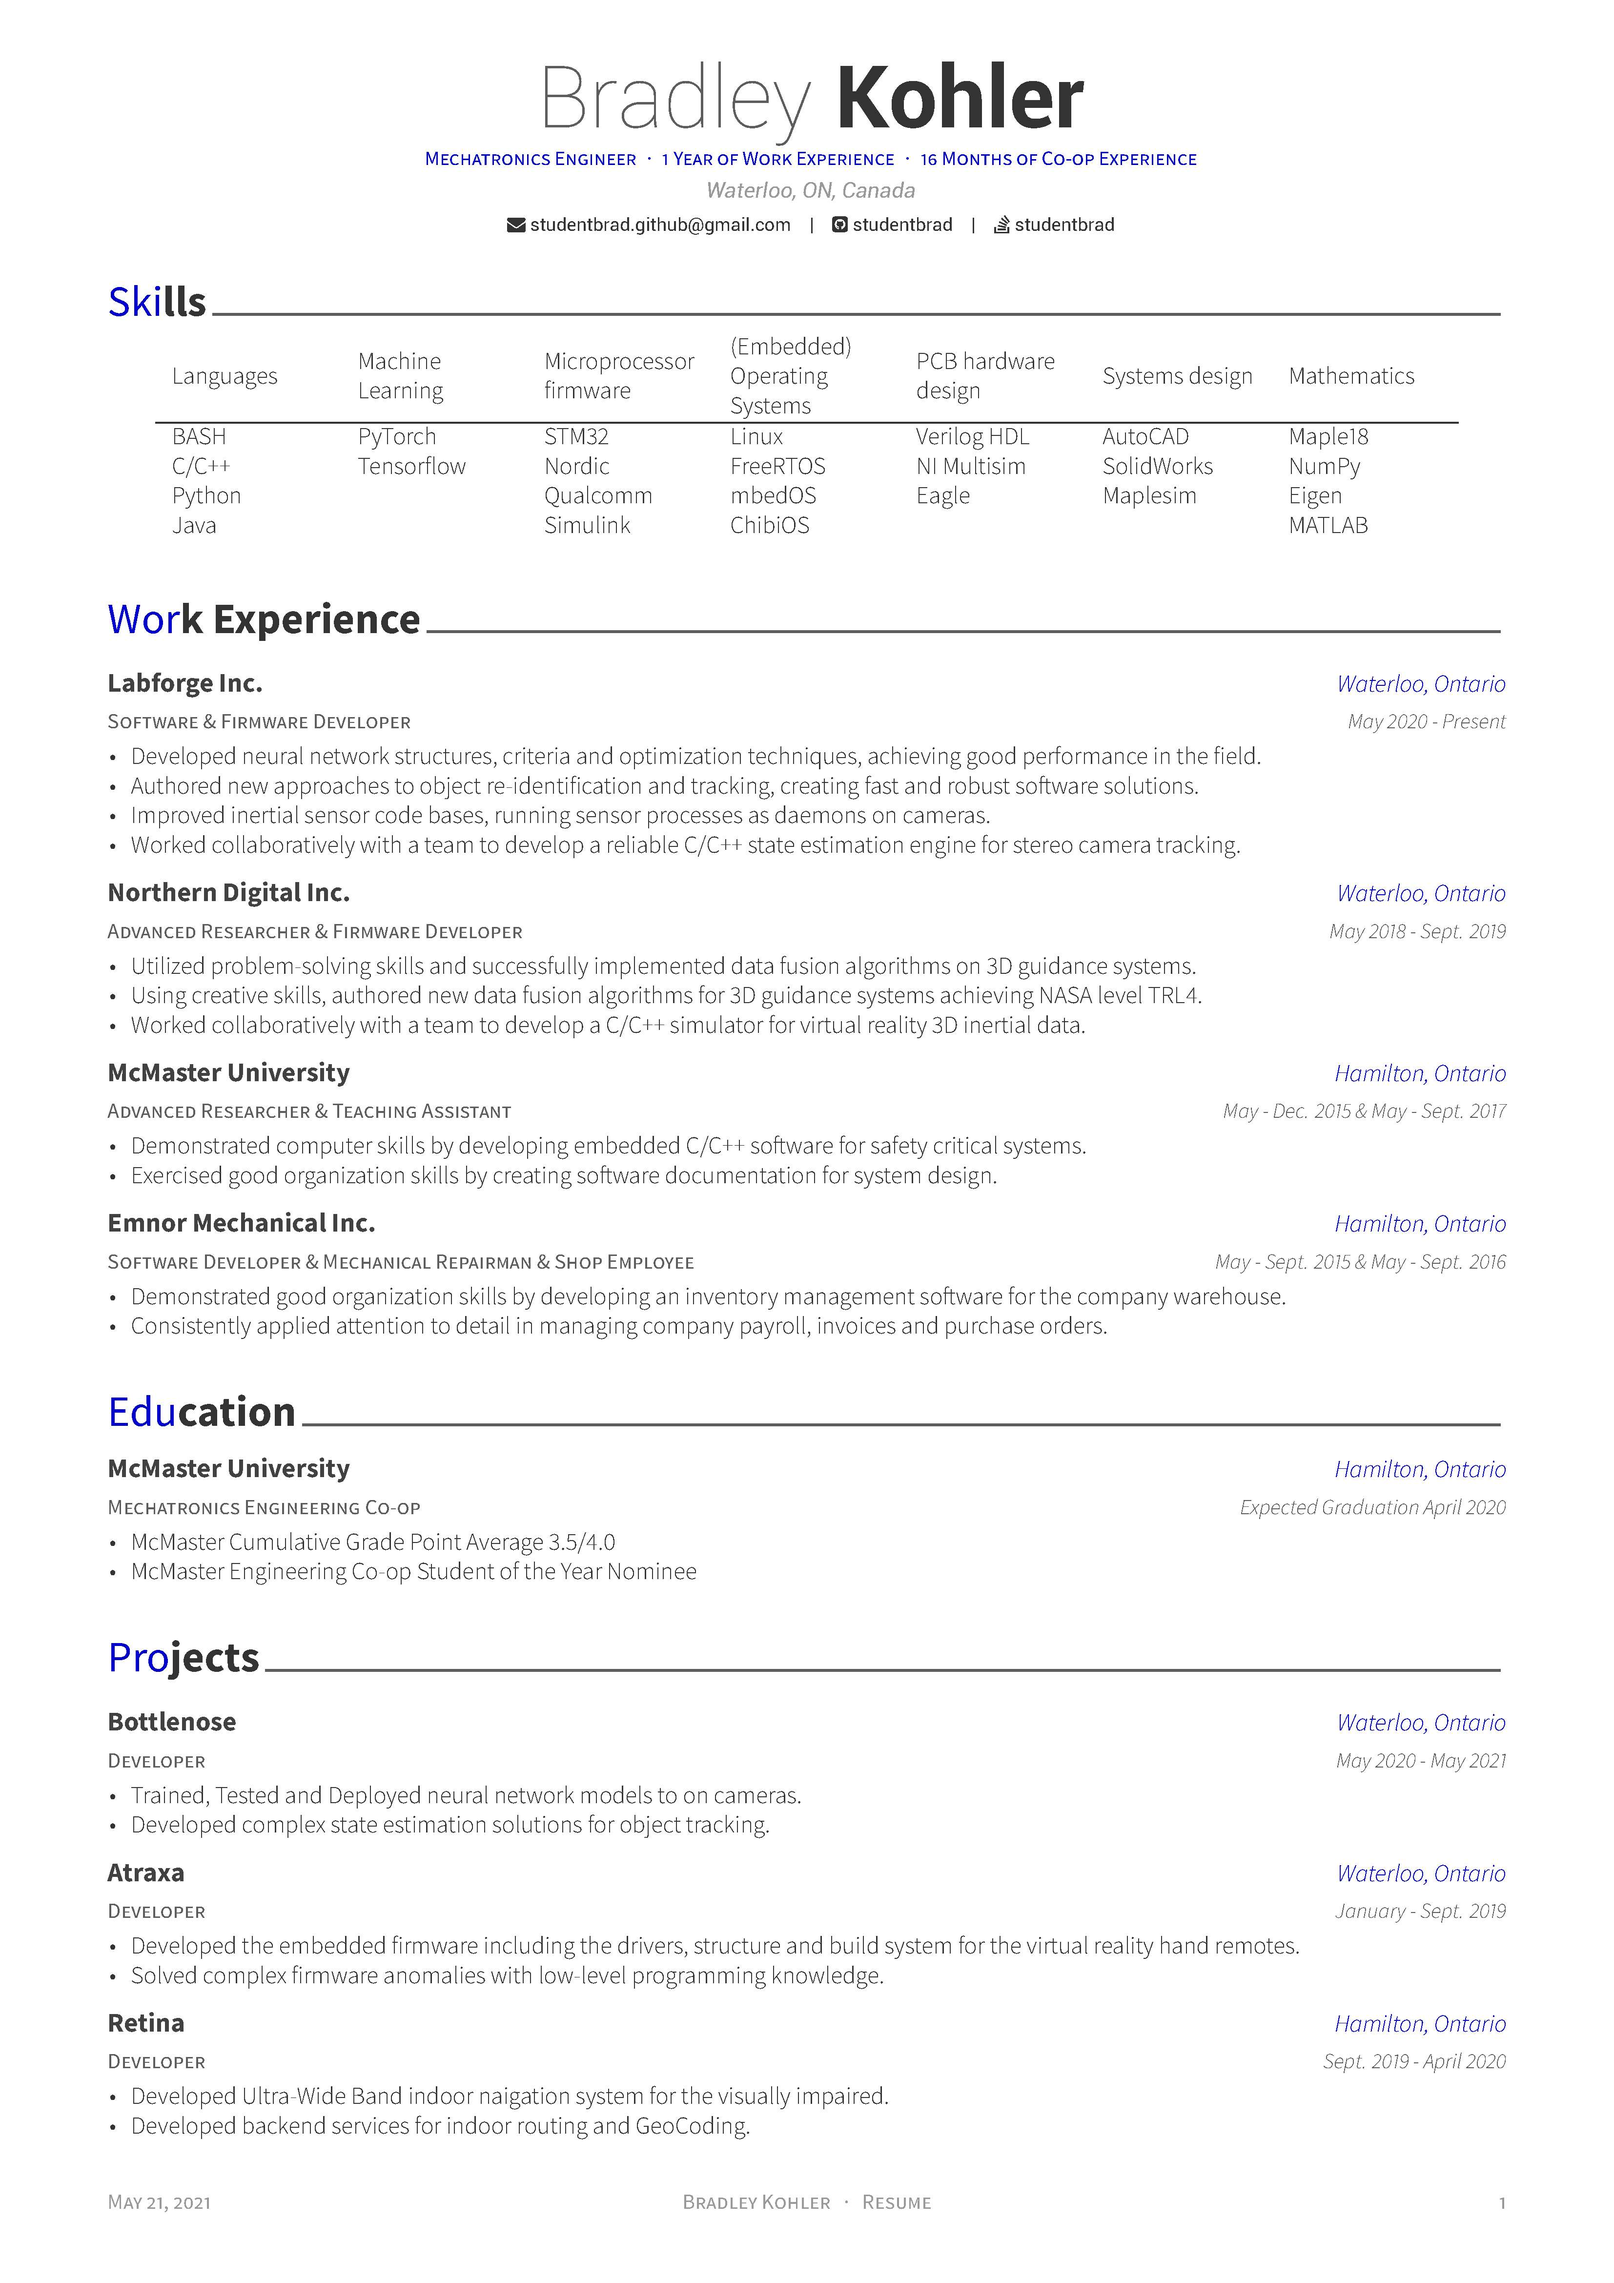
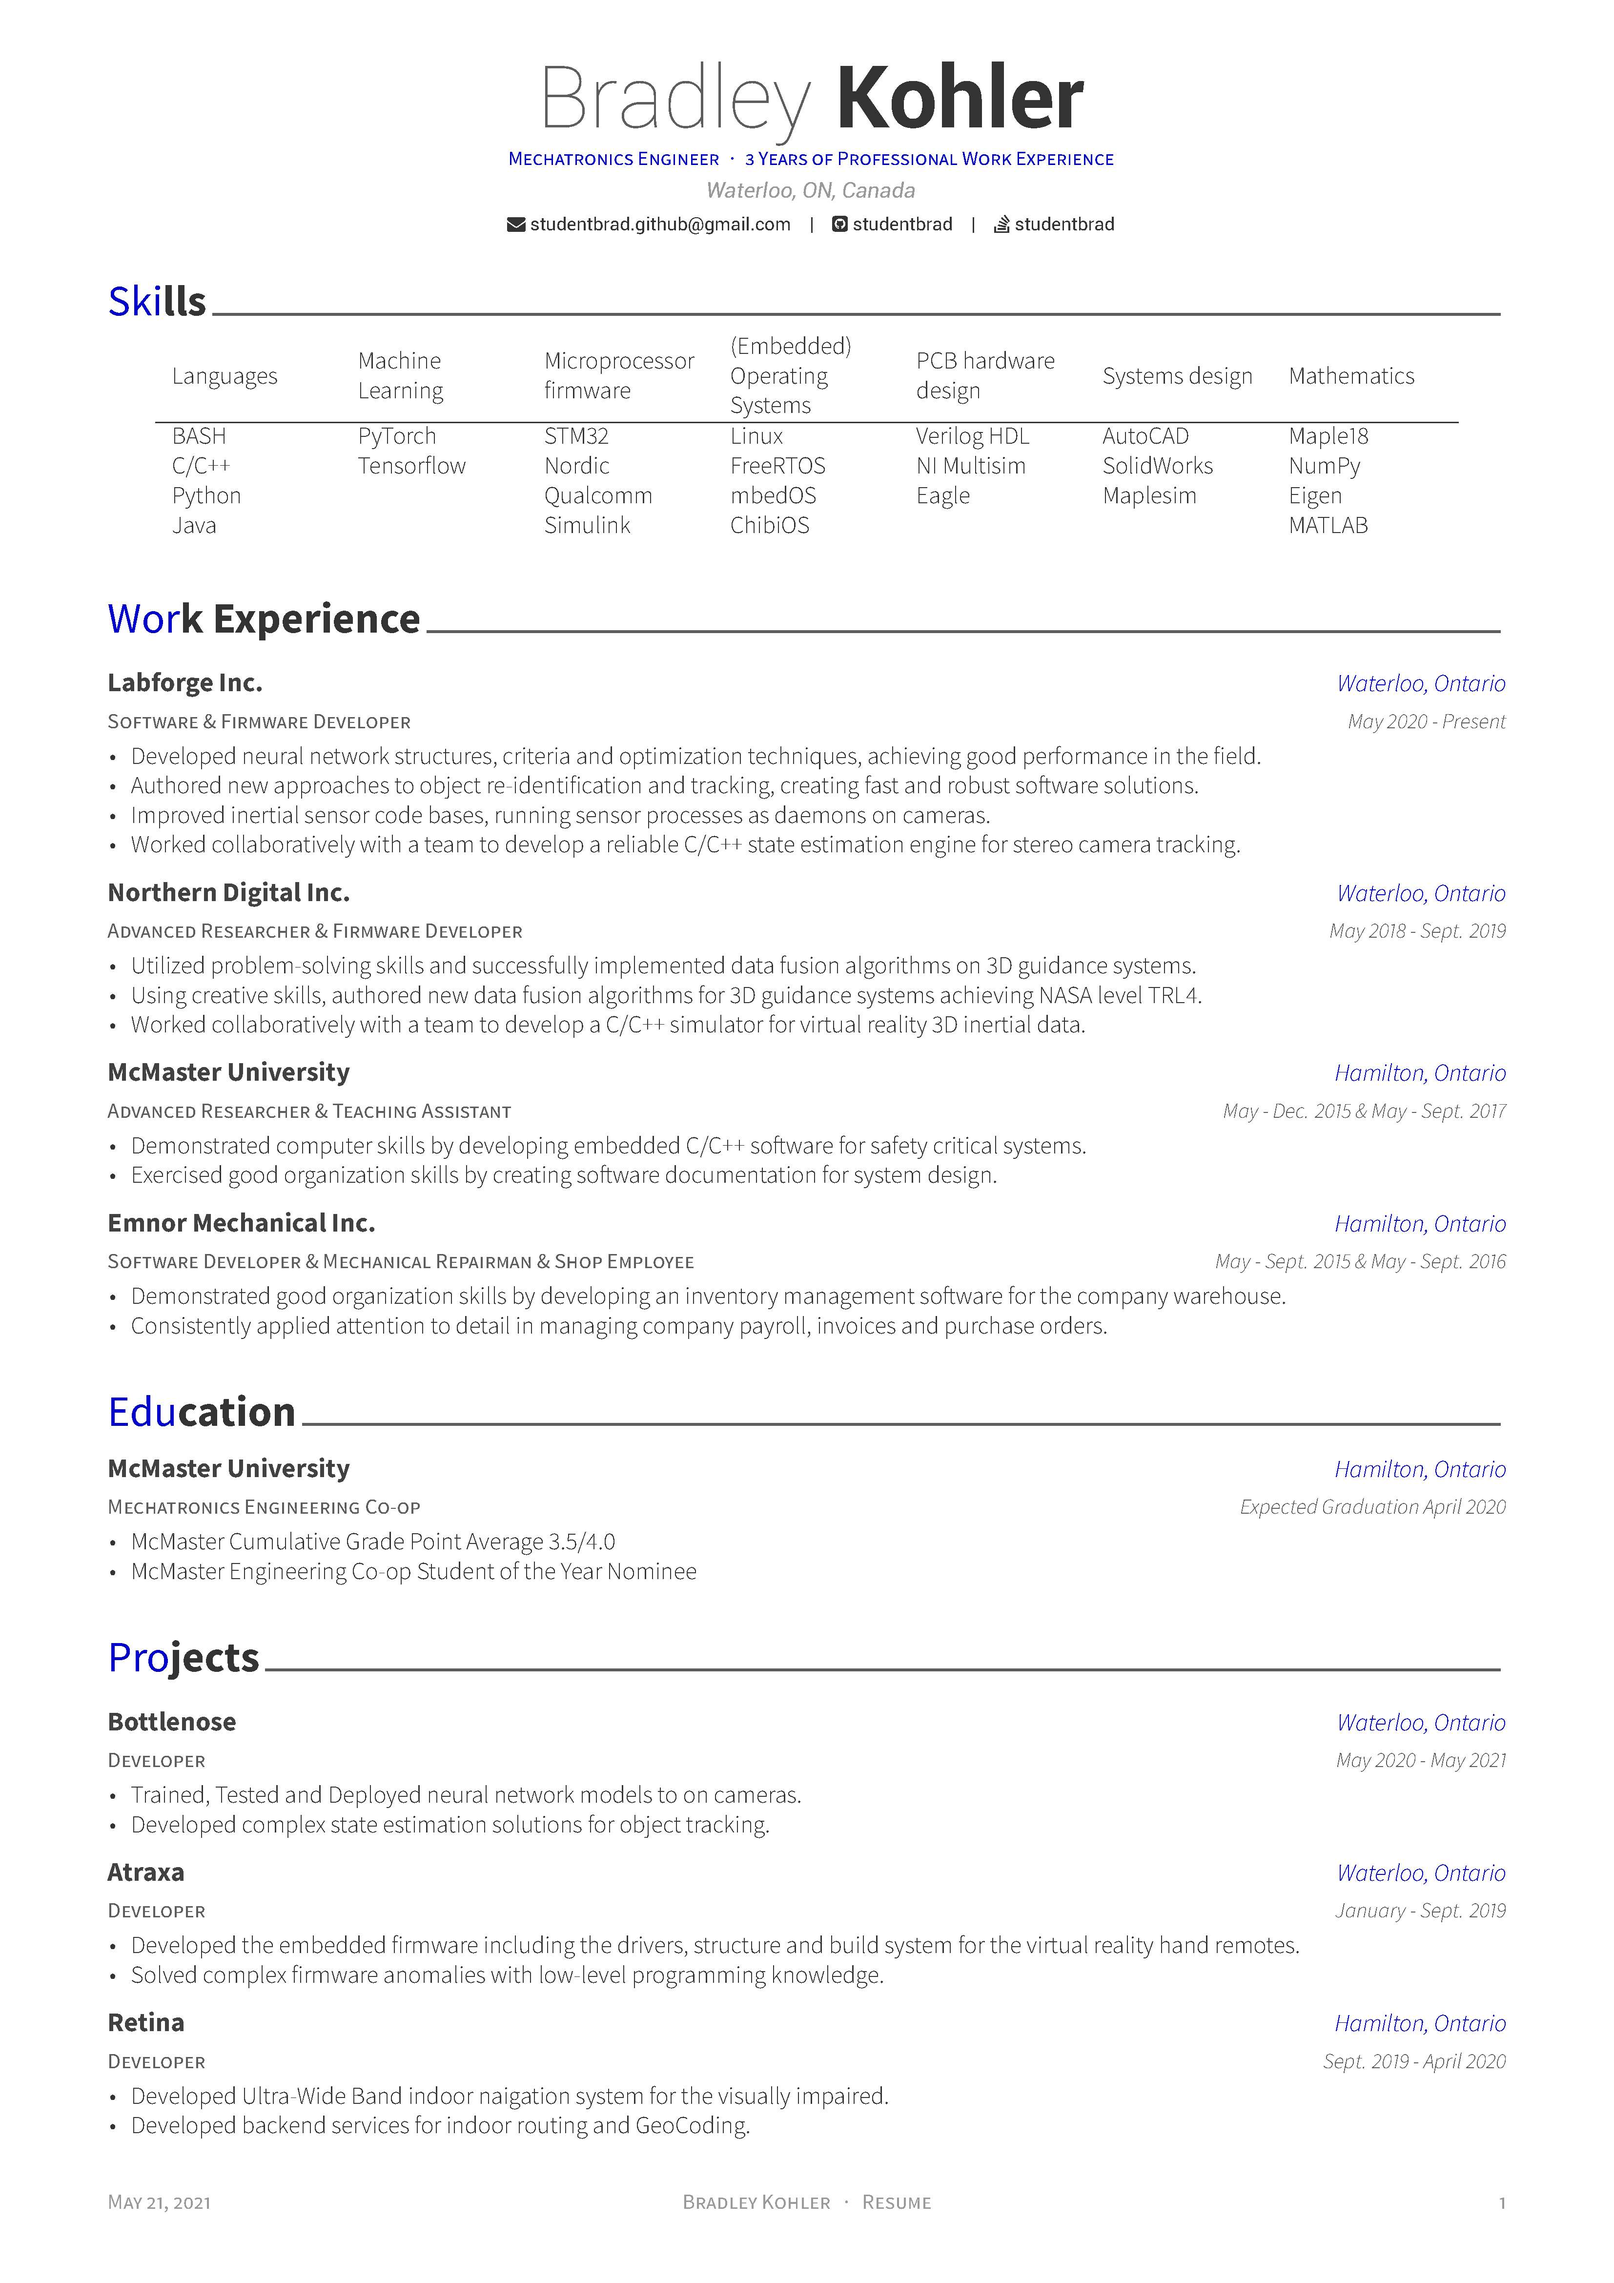
changed title note

diff --git a/studentbrad_personal_resume.tex b/studentbrad_personal_resume.tex
@@ -56,7 +56,7 @@
 % Available options: circle|rectangle,edge/noedge,left/right
 % \photo[circle,noedge,left]{images/photo.jpg}
 \name{Bradley}{Kohler}
-\position{Mechatronics Engineer{\enskip\cdotp\enskip}1 Year of Work Experience{\enskip\cdotp\enskip}16 Months of Co-op Experience}
+\position{Mechatronics Engineer{\enskip\cdotp\enskip}3 Years of Professional Work Experience}
 \address{Waterloo, ON, Canada}
 
 % \mobile{(+999) 999 9999}
